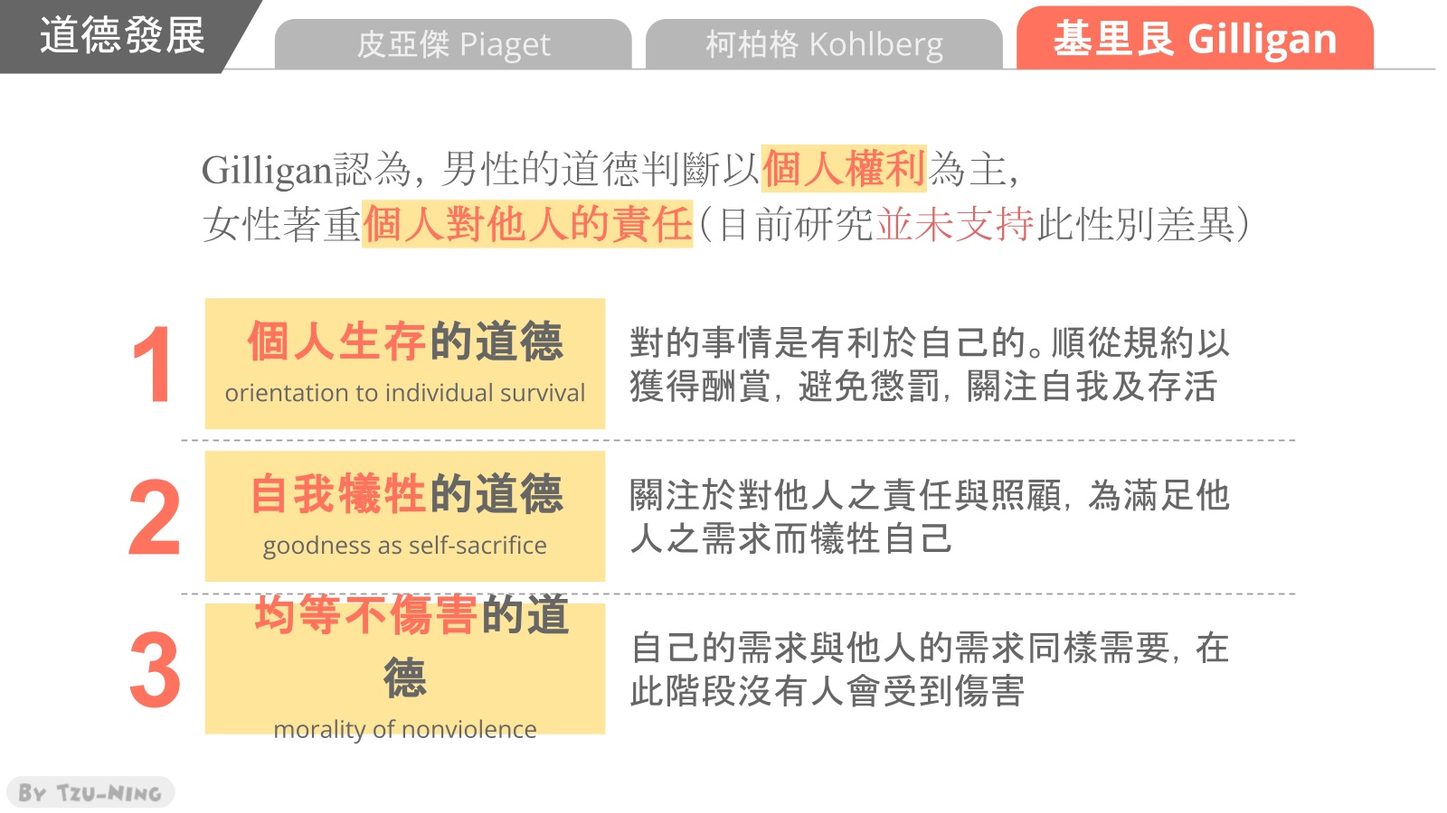
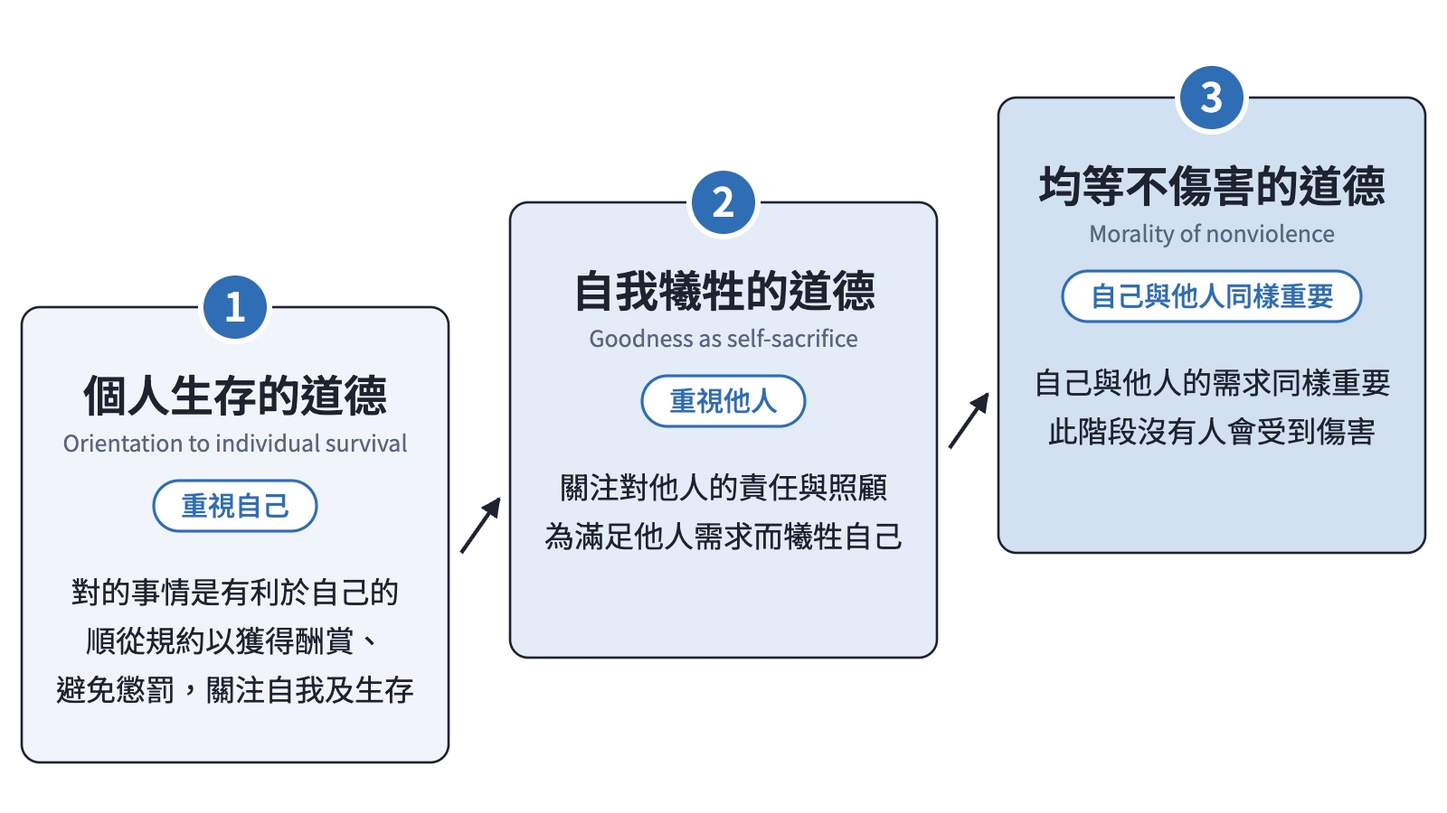
第 3 週：表格改寫成文字、重繪 Gilligan 三個道德層次
Kohlberg 三期六段、海因茲兩難理由、Parten 六種遊戲的表格與投影片重複，改寫成說明與判斷線索；Gilligan 三個道德層次依投影片內容重繪。AGENTS.md 新增「不重複投影片內容」的寫作規則。

diff --git a/review/week03/index.html b/review/week03/index.html
@@ -104,14 +104,15 @@
     <p>Kohlberg 在意的不是受試者回答「該」或「不該」，而是背後的理由；他會一路追問，以找出受試者最核心在意的是什麼。例如有人認為應該偷藥，因為生命最重要，但又認為偷藥之後仍應去坐牢，因為社會秩序也很重要；既然偷藥是對的事，為什麼做了對的事還要被關？這顯示他心中的排序，社會秩序可能比想像中更靠前。<span class="mark">不同的理由，會落在不同的道德發展階段</span>。</p>
     <h2 id="s8">Kohlberg 的三期六段論</h2>
     <p>Kohlberg 將道德發展分為三個時期，每個時期下再分兩個階段，共<strong>三期六段</strong>；因此他的理論屬於<strong>階段論（不連續論）</strong>。三個時期的名稱可以從中間記起：中間的<strong>習俗道德期（conventional）</strong>與規則、秩序有關；在它之前的是<strong>前習俗道德期（preconventional）</strong>，之後的是<strong>後習俗道德期（postconventional）</strong>。</p>
-    <div class="tbl"><table><thead><tr><th>時期</th><th>階段</th><th>判斷的依據</th></tr></thead><tbody><tr><td>一、前習俗道德期</td><td>1. 避罰服從取向</td><td>為避免懲罰而服從權威或規則；行為的好壞取決於它帶來怎樣的後果。</td></tr><tr><td></td><td>2. 相對功利取向</td><td>以自身需求或利益為首要考量，也可能進行互惠交換，例如「這次考試我借你看，下次你也要借我看」。</td></tr><tr><td>二、習俗道德期</td><td>3. 尋求認可取向（乖男巧女取向）</td><td>重視重要他人的認可及維持良好關係；英文為 good boy／good girl，希望別人說自己是好孩子。</td></tr><tr><td></td><td>4. 法律秩序取向（社會秩序取向）</td><td>重視履行義務、遵守法律及維持社會秩序；即使認為某條法律不好，在修改之前仍應遵守。</td></tr><tr><td>三、後習俗道德期</td><td>5. 社會契約取向</td><td>理解法律與制度是共同的約定，並重視個人權利及公共利益；只要社會有共識，法律也可以修改。</td></tr><tr><td></td><td>6. 普遍倫理取向</td><td>依據可普遍適用的倫理原則（良心）進行判斷；此階段的實證地位仍有爭議。</td></tr></tbody></table></div>
+    <p><strong>前習俗道德期</strong>以自己為判斷的中心。第一階段<strong>避罰服從取向</strong>為避免懲罰而服從權威或規則，行為的好壞取決於會帶來什麼後果；第二階段<strong>相對功利取向</strong>以自身的需求或利益為首要考量，也可能進行互惠交換，例如「這次考試我借你看，下次你也要借我看」。</p>
+    <p><strong>習俗道德期</strong>開始在意他人與社會的規範。第三階段<strong>尋求認可取向</strong>又稱乖男巧女取向（good boy／good girl），重視重要他人的認可，希望別人覺得自己是好孩子；第四階段<strong>法律秩序取向</strong>（社會秩序取向）重視履行義務、遵守法律，即使認為某條法律不好，在修改之前仍應遵守。</p>
+    <p><strong>後習俗道德期</strong>則能從更高的層次看待規範。第五階段<strong>社會契約取向</strong>理解法律與制度是共同的約定，並重視個人權利與公共利益，只要社會有共識，法律也可以修改；第六階段<strong>普遍倫理取向</strong>依據良心與可普遍適用的倫理原則進行判斷，不過這個階段的實證地位仍有爭議。</p>
     <figure class="slide"><img src="slides/kstages.jpg" alt="投影片：Kohlberg 的三期六段" width="1600" height="900" loading="lazy"><figcaption>Kohlberg 的三期六段</figcaption></figure>
     <p>並非每個人都會發展到第五、六階段，這與年齡的關係也沒有那麼大；六十歲的人也不一定進入後習俗道德期，多數成人仍落在第三、四階段。Kohlberg 的理論<span class="mark">並不是說階段越高的人越善良</span>，它分類的是一個人如何進行道德推理。</p>
     <h3 id="s8-1">以海因茲兩難練習判斷</h3>
-    <p>同樣面對海因茲兩難，不同理由對應不同的取向：</p>
-    <div class="tbl"><table><thead><tr><th>該不該偷藥與理由</th><th>道德判斷的依據</th><th>取向</th></tr></thead><tbody><tr><td>不應偷藥：偷藥會被抓、會受罰</td><td>只要會被處罰，就是不對的事</td><td>1. 避罰服從</td></tr><tr><td>應該偷藥：救回妻子後，兩人還能彼此照顧</td><td>只要結果優於損失（利大於弊），就是對的事</td><td>2. 相對功利</td></tr><tr><td>應該偷藥：否則親友會覺得他無情無義、不是好丈夫</td><td>只要他人認可的，就是對的事</td><td>3. 尋求認可</td></tr><tr><td>不應偷藥：因為大家都認為好人是不該偷東西的</td><td>只要他人認可的，就是對的事</td><td>3. 尋求認可</td></tr><tr><td>不應偷藥：若人人都因個人理由違法，法律與社會秩序將難以維持</td><td>只要法律禁止的，就是錯的</td><td>4. 法律秩序</td></tr><tr><td>應該偷藥：即使違法，救人仍符合保障生命的社會共識；不合宜的法律可透過民主程序修改</td><td>法律可因情況被修改</td><td>5. 社會契約</td></tr><tr><td>應該偷藥：即使法律禁止，仍應依可普遍適用的正義原則，考量生命與每個人的尊嚴</td><td>依據普遍的價值與原則進行判斷</td><td>6. 普遍倫理</td></tr></tbody></table></div>
+    <p>課堂以海因茲兩難的七種回答練習判斷取向。判斷的線索都在理由裡：「偷藥會被抓、會受罰」是<strong>避罰服從</strong>；「救回妻子後，兩人還能彼此照顧」看的是利大於弊，屬於<strong>相對功利</strong>；「否則親友會覺得他不是好丈夫」與「大家都認為好人不該偷東西」都在乎別人怎麼看，屬於<strong>尋求認可</strong>；「若人人都因個人理由違法，社會秩序將難以維持」是<strong>法律秩序</strong>；「救人符合保障生命的社會共識，不合宜的法律可以修改」是<strong>社會契約</strong>；「依可普遍適用的正義原則，考量生命與每個人的尊嚴」則是<strong>普遍倫理</strong>。</p>
     <figure class="slide"><img src="slides/kreasons.jpg" alt="投影片：海因茲兩難的回答與道德判斷理由（王秀槐，2020）" width="1600" height="900" loading="lazy"><figcaption>海因茲兩難的回答與道德判斷理由（王秀槐，2020）</figcaption></figure>
-    <p>表中第三、四列特別值得留意：一位認為應該偷、一位認為不應該偷，但理由都是希望得到別人的認可，因此都屬於尋求認可取向。<span class="mark">外在的行為選擇看似相反，背後的理由卻可能來自同一個取向</span>；判斷時要看理由，而不是看結論。</p>
+    <p>其中尋求認可的兩個回答特別值得留意：一位認為應該偷、一位認為不應該偷，但理由都是希望得到別人的認可，因此都屬於尋求認可取向。<span class="mark">外在的行為選擇看似相反，背後的理由卻可能來自同一個取向</span>；判斷時要看理由，而不是看結論。</p>
     <p>幾個判斷的例子：因為怕被警察抓到所以不闖紅燈，屬於避罰服從；因為推甄有加分才去做，屬於相對功利；怕別人覺得自己沒愛心、或「身為好朋友就該幫你」，屬於尋求認可；凡事照規定來，屬於法律秩序；取決於良心，則屬於最高的第六階段普遍倫理。國中生特別重視同儕、希望被認可，因此以尋求認可取向最為常見。</p>
     <h2 id="s9">Gilligan：女性視角的道德</h2>
     <p><strong>基里艮（Carol Gilligan，1936–）</strong>是美國心理學家，曾任教於哈佛大學，目前任教於紐約大學。她原本與 Kohlberg 同在哈佛的研究團隊，後來對 Kohlberg 的研究提出兩點質疑：</p>
@@ -120,19 +121,18 @@
     <figure class="slide"><img src="slides/gbio.jpg" alt="投影片：卡蘿・基里艮（Carol Gilligan）" width="1600" height="900" loading="lazy"><figcaption>卡蘿・基里艮（Carol Gilligan）</figcaption></figure>
     <p>Gilligan 認為，男性的道德判斷以<strong>個人權利</strong>為主，女性則著重<strong>個人對他人的責任</strong>，因此她的觀點常被稱為<strong>關懷倫理（ethics of care）</strong>。需要特別強調的是，這是 Gilligan 的觀點；<span class="mark">目前的研究並未支持道德判斷有這樣的性別差異</span>。她提出女性道德發展的三個層次：</p>
     <ol><li><strong>個人生存的道德（orientation to individual survival）</strong>：重視自己。對的事情是有利於自己的事；順從規約以獲得酬賞、避免懲罰，關注自我及生存。</li><li><strong>自我犧牲的道德（goodness as self-sacrifice）</strong>：重視別人。關注對他人的責任與照顧，為滿足他人的需求而犧牲自己。</li><li><strong>均等不傷害的道德（morality of nonviolence）</strong>：自己的需求與他人的需求同樣重要，希望做出的判斷與決定不會讓任何人受到傷害，也沒有人需要犧牲。</li></ol>
-    <figure class="slide"><img src="slides/glevels.jpg" alt="投影片：Gilligan 的三個道德層次" width="1600" height="900" loading="lazy"><figcaption>Gilligan 的三個道德層次</figcaption></figure>
+    <figure class="slide"><img src="slides/glevels.jpg" alt="投影片：Gilligan 的三個道德層次（依 Gilligan, 1982 繪製）" width="1600" height="900" loading="lazy"><figcaption>Gilligan 的三個道德層次（依 Gilligan, 1982 繪製）</figcaption></figure>
     <h2 id="s10">學前階段：同儕、利社會行為與遊戲</h2>
     <p>最後依學前、小學、中學三個階段，整理社會情緒的發展。每個階段都可以先對照 Erikson 的心理社會階段：學前階段（幼兒園）的主要任務是遊戲，透過遊戲探索世界，對應的是<span class="mark">第三期「主動探索 vs. 罪惡感」</span>。</p>
     <ul><li><strong>同儕關係（peers）</strong>：同儕之間的衝突，讓兒童了解別人的感覺與觀點不一定和自己相同；與同儕一起遊戲，有助於幼兒克服 Piaget 所說前運思期的<strong>自我中心</strong>。</li><li><strong>利社會行為（prosocial behavior）</strong>：指兒童自願對他人表現照顧、分享、安慰與合作等行為，例如幼兒問媽媽「你怎麼了？不舒服嗎？」影響因素中，最重要的是<strong>父母的管教方式</strong>，特別是強調兒童的行為會對別人產生什麼影響；其次是<strong>兒童與成人的互動方式</strong>，例如成人表示希望兒童關心別人、表明攻擊不被接受並提出替代方案、將兒童的良好行為歸因為其正面特質。</li><li><strong>遊戲（play）</strong>：遊戲讓兒童有機會練習語言、認知、技能與社會技能，並有助於人格發展。學前兒童與同儕的互動方式，與他們和父母的互動方式有關：有父母關愛和溫暖的孩子，較容易有社會性假裝遊戲，也較能解決同儕衝突。</li></ul>
     <figure class="slide"><img src="slides/peers.jpg" alt="投影片：學前階段：同儕關係與利社會行為（Slavin, 2021）" width="1600" height="900" loading="lazy"><figcaption>學前階段：同儕關係與利社會行為（Slavin, 2021）</figcaption></figure>
     <figure class="slide"><img src="slides/play.jpg" alt="投影片：學前階段：遊戲（Slavin, 2021）" width="1600" height="900" loading="lazy"><figcaption>學前階段：遊戲（Slavin, 2021）</figcaption></figure>
     <h3 id="s10-1">Parten 的六種遊戲類型</h3>
-    <p><strong>Parten（1932）</strong>依社會參與的多寡與遊戲的精緻程度，將兒童的遊戲行為分為六種類型：</p>
-    <div class="tbl"><table><thead><tr><th>類型</th><th>大約出現時間</th><th>特徵</th></tr></thead><tbody><tr><td>1. 無目的遊戲（unoccupied play）</td><td>出生–3 個月</td><td>不太像典型的「玩」；不與任何人或事物一起玩，可能靜靜的或隨意揮動手腳，探索自己的身體如何移動，為日後的單獨遊戲做準備。</td></tr><tr><td>2. 單獨遊戲（solitary play）</td><td>3 個月–2 歲</td><td>獨自玩耍，專注於自己的活動，對周遭他人的活動不感興趣或沒有察覺，屬於非社會性活動；對培養專注力、想像力與掌握新技能很重要。</td></tr><tr><td>3. 旁觀者遊戲（onlooker play）</td><td>約 1.5–3 歲</td><td>觀看他人遊戲但不參與，可能在附近提問或評論，但主要活動仍是「觀看」；是開始學習社交規則與遊戲方式的重要一步。</td></tr><tr><td>4. 平行遊戲（parallel play）</td><td>2–4 歲</td><td>與其他孩子「並排」玩耍、使用類似的玩具，但彼此沒有直接的互動或合作；意識到彼此的存在，仍專注於自己的遊戲。</td></tr><tr><td>5. 聯合遊戲（associative play）</td><td>3–5 歲</td><td>開始與他人產生互動，會分享玩具或材料、交流正在進行的活動，但沒有共同的目標或統一的規則。</td></tr><tr><td>6. 合作遊戲（cooperative play）</td><td>4 歲以上</td><td>為了達成共同的目標而一起玩；遊戲有組織，成員有明確的角色分配與共同的規則，需要更成熟的社交、溝通與解決問題的能力。</td></tr></tbody></table></div>
+    <p><strong>Parten（1932）</strong>依社會參與的多寡與遊戲的精緻程度，將兒童的遊戲行為分為六種類型，從非社會性到社會性依序為：<strong>無目的遊戲（unoccupied play）</strong>、<strong>單獨遊戲（solitary play）</strong>、<strong>旁觀者遊戲（onlooker play）</strong>、<strong>平行遊戲（parallel play）</strong>、<strong>聯合遊戲（associative play）</strong>與<strong>合作遊戲（cooperative play）</strong>。前三種屬於非社會性活動：無目的遊戲不太像典型的「玩」，嬰兒只是隨意揮動手腳，探索自己的身體如何移動；單獨遊戲是自己玩、專注在自己的活動上，對培養專注力與想像力很重要；旁觀者遊戲則是在旁邊看別人玩、不加入，是開始學習社交規則的一步。後三種開始與他人有關，差別在於互動的程度。</p>
     <figure class="slide"><img src="slides/play13.jpg" alt="投影片：無目的遊戲、單獨遊戲與旁觀者遊戲（Parten, 1932）" width="1600" height="900" loading="lazy"><figcaption>無目的遊戲、單獨遊戲與旁觀者遊戲（Parten, 1932）</figcaption></figure>
     <figure class="slide"><img src="slides/play46.jpg" alt="投影片：平行遊戲、聯合遊戲與合作遊戲（Parten, 1932）" width="1600" height="900" loading="lazy"><figcaption>平行遊戲、聯合遊戲與合作遊戲（Parten, 1932）</figcaption></figure>
     <p>較容易混淆的是旁觀者、平行與聯合遊戲。在公園裡站在旁邊一直看別人玩、可能會發問但沒有要加入的，是<strong>旁觀者遊戲</strong>；在沙坑裡各自拿著自己的鏟子挖沙、知道旁邊有人但各玩各的，是<strong>平行遊戲</strong>；向旁邊的孩子借盤子、借彩色筆，彼此有互動但沒有共同規則，是<strong>聯合遊戲</strong>；一起玩扮家家酒，有人當老闆、有人當客人，有角色、有規則，則是<strong>合作遊戲</strong>。</p>
-    <p>表中的時間只是大約的發展時間。<span class="mark">六種遊戲沒有高下之分</span>，只是與他人互動的程度不同；孩子會在不同類型之間轉換，已會合作遊戲的孩子也可能回到單獨遊戲，因此孩子一個人玩，不一定代表他比較不成熟。</p>
+    <p>投影片上的年齡只是大約的發展時間。<span class="mark">六種遊戲沒有高下之分</span>，只是與他人互動的程度不同；孩子會在不同類型之間轉換，已會合作遊戲的孩子也可能回到單獨遊戲，因此孩子一個人玩，不一定代表他比較不成熟。</p>
     <h2 id="s11">小學階段：自我概念、自尊與同儕接納</h2>
     <p>小學階段對應 Erikson 的<span class="mark">第四期「勤奮努力 vs. 自貶自卑」</span>。因為有了社會比較，這個階段特別需要了解以下幾個概念。</p>
     <h3 id="s11-1">自我概念與自尊</h3>

diff --git a/review-src/week03/content.py b/review-src/week03/content.py
@@ -23,7 +23,7 @@ SLIDES = {  # 皆為未隱藏投影片
     "heinz": "g380171b513d_0_1014",
     "kreasons": "g380171b513d_0_1054",
     "gbio": "g380171b513d_0_876",
-    "glevels": "g380171b513d_0_923",
+    "glevels": "g380171b513d_0_923",  # 依此頁內容重繪（work/diagram-test/gen_gilligan.py），非投影片匯出圖
     "peers": "g380171b513d_0_1236",
     "play": "g380171b513d_0_1245",
     "play13": "g380171b513d_0_1164",
@@ -155,27 +155,15 @@ BLOCKS = [
 
  ("h2", "Kohlberg 的三期六段論"),
  ("p", "Kohlberg 將道德發展分為三個時期，每個時期下再分兩個階段，共**三期六段**；因此他的理論屬於**階段論（不連續論）**。三個時期的名稱可以從中間記起：中間的**習俗道德期（conventional）**與規則、秩序有關；在它之前的是**前習俗道德期（preconventional）**，之後的是**後習俗道德期（postconventional）**。"),
- ("table", [["時期", "階段", "判斷的依據"],
-            ["一、前習俗道德期", "1. 避罰服從取向", "為避免懲罰而服從權威或規則；行為的好壞取決於它帶來怎樣的後果。"],
-            ["", "2. 相對功利取向", "以自身需求或利益為首要考量，也可能進行互惠交換，例如「這次考試我借你看，下次你也要借我看」。"],
-            ["二、習俗道德期", "3. 尋求認可取向（乖男巧女取向）", "重視重要他人的認可及維持良好關係；英文為 good boy／good girl，希望別人說自己是好孩子。"],
-            ["", "4. 法律秩序取向（社會秩序取向）", "重視履行義務、遵守法律及維持社會秩序；即使認為某條法律不好，在修改之前仍應遵守。"],
-            ["三、後習俗道德期", "5. 社會契約取向", "理解法律與制度是共同的約定，並重視個人權利及公共利益；只要社會有共識，法律也可以修改。"],
-            ["", "6. 普遍倫理取向", "依據可普遍適用的倫理原則（良心）進行判斷；此階段的實證地位仍有爭議。"]]),
+ ("p", "**前習俗道德期**以自己為判斷的中心。第一階段**避罰服從取向**為避免懲罰而服從權威或規則，行為的好壞取決於會帶來什麼後果；第二階段**相對功利取向**以自身的需求或利益為首要考量，也可能進行互惠交換，例如「這次考試我借你看，下次你也要借我看」。"),
+ ("p", "**習俗道德期**開始在意他人與社會的規範。第三階段**尋求認可取向**又稱乖男巧女取向（good boy／good girl），重視重要他人的認可，希望別人覺得自己是好孩子；第四階段**法律秩序取向**（社會秩序取向）重視履行義務、遵守法律，即使認為某條法律不好，在修改之前仍應遵守。"),
+ ("p", "**後習俗道德期**則能從更高的層次看待規範。第五階段**社會契約取向**理解法律與制度是共同的約定，並重視個人權利與公共利益，只要社會有共識，法律也可以修改；第六階段**普遍倫理取向**依據良心與可普遍適用的倫理原則進行判斷，不過這個階段的實證地位仍有爭議。"),
  ("img", "kstages", "Kohlberg 的三期六段"),
  ("p", "並非每個人都會發展到第五、六階段，這與年齡的關係也沒有那麼大；六十歲的人也不一定進入後習俗道德期，多數成人仍落在第三、四階段。Kohlberg 的理論==並不是說階段越高的人越善良==，它分類的是一個人如何進行道德推理。"),
  ("h3", "以海因茲兩難練習判斷"),
- ("p", "同樣面對海因茲兩難，不同理由對應不同的取向："),
- ("table", [["該不該偷藥與理由", "道德判斷的依據", "取向"],
-            ["不應偷藥：偷藥會被抓、會受罰", "只要會被處罰，就是不對的事", "1. 避罰服從"],
-            ["應該偷藥：救回妻子後，兩人還能彼此照顧", "只要結果優於損失（利大於弊），就是對的事", "2. 相對功利"],
-            ["應該偷藥：否則親友會覺得他無情無義、不是好丈夫", "只要他人認可的，就是對的事", "3. 尋求認可"],
-            ["不應偷藥：因為大家都認為好人是不該偷東西的", "只要他人認可的，就是對的事", "3. 尋求認可"],
-            ["不應偷藥：若人人都因個人理由違法，法律與社會秩序將難以維持", "只要法律禁止的，就是錯的", "4. 法律秩序"],
-            ["應該偷藥：即使違法，救人仍符合保障生命的社會共識；不合宜的法律可透過民主程序修改", "法律可因情況被修改", "5. 社會契約"],
-            ["應該偷藥：即使法律禁止，仍應依可普遍適用的正義原則，考量生命與每個人的尊嚴", "依據普遍的價值與原則進行判斷", "6. 普遍倫理"]]),
+ ("p", "課堂以海因茲兩難的七種回答練習判斷取向。判斷的線索都在理由裡：「偷藥會被抓、會受罰」是**避罰服從**；「救回妻子後，兩人還能彼此照顧」看的是利大於弊，屬於**相對功利**；「否則親友會覺得他不是好丈夫」與「大家都認為好人不該偷東西」都在乎別人怎麼看，屬於**尋求認可**；「若人人都因個人理由違法，社會秩序將難以維持」是**法律秩序**；「救人符合保障生命的社會共識，不合宜的法律可以修改」是**社會契約**；「依可普遍適用的正義原則，考量生命與每個人的尊嚴」則是**普遍倫理**。"),
  ("img", "kreasons", "海因茲兩難的回答與道德判斷理由（王秀槐，2020）"),
- ("p", "表中第三、四列特別值得留意：一位認為應該偷、一位認為不應該偷，但理由都是希望得到別人的認可，因此都屬於尋求認可取向。==外在的行為選擇看似相反，背後的理由卻可能來自同一個取向==；判斷時要看理由，而不是看結論。"),
+ ("p", "其中尋求認可的兩個回答特別值得留意：一位認為應該偷、一位認為不應該偷，但理由都是希望得到別人的認可，因此都屬於尋求認可取向。==外在的行為選擇看似相反，背後的理由卻可能來自同一個取向==；判斷時要看理由，而不是看結論。"),
  ("p", "幾個判斷的例子：因為怕被警察抓到所以不闖紅燈，屬於避罰服從；因為推甄有加分才去做，屬於相對功利；怕別人覺得自己沒愛心、或「身為好朋友就該幫你」，屬於尋求認可；凡事照規定來，屬於法律秩序；取決於良心，則屬於最高的第六階段普遍倫理。國中生特別重視同儕、希望被認可，因此以尋求認可取向最為常見。"),
 
  ("h2", "Gilligan：女性視角的道德"),
@@ -188,7 +176,7 @@ BLOCKS = [
  ("ol", ["**個人生存的道德（orientation to individual survival）**：重視自己。對的事情是有利於自己的事；順從規約以獲得酬賞、避免懲罰，關注自我及生存。",
          "**自我犧牲的道德（goodness as self-sacrifice）**：重視別人。關注對他人的責任與照顧，為滿足他人的需求而犧牲自己。",
          "**均等不傷害的道德（morality of nonviolence）**：自己的需求與他人的需求同樣重要，希望做出的判斷與決定不會讓任何人受到傷害，也沒有人需要犧牲。"]),
- ("img", "glevels", "Gilligan 的三個道德層次"),
+ ("img", "glevels", "Gilligan 的三個道德層次（依 Gilligan, 1982 繪製）"),
 
  ("h2", "學前階段：同儕、利社會行為與遊戲"),
  ("p", "最後依學前、小學、中學三個階段，整理社會情緒的發展。每個階段都可以先對照 Erikson 的心理社會階段：學前階段（幼兒園）的主要任務是遊戲，透過遊戲探索世界，對應的是==第三期「主動探索 vs. 罪惡感」==。"),
@@ -198,18 +186,11 @@ BLOCKS = [
  ("img", "peers", "學前階段：同儕關係與利社會行為（Slavin, 2021）"),
  ("img", "play", "學前階段：遊戲（Slavin, 2021）"),
  ("h3", "Parten 的六種遊戲類型"),
- ("p", "**Parten（1932）**依社會參與的多寡與遊戲的精緻程度，將兒童的遊戲行為分為六種類型："),
- ("table", [["類型", "大約出現時間", "特徵"],
-            ["1. 無目的遊戲（unoccupied play）", "出生–3 個月", "不太像典型的「玩」；不與任何人或事物一起玩，可能靜靜的或隨意揮動手腳，探索自己的身體如何移動，為日後的單獨遊戲做準備。"],
-            ["2. 單獨遊戲（solitary play）", "3 個月–2 歲", "獨自玩耍，專注於自己的活動，對周遭他人的活動不感興趣或沒有察覺，屬於非社會性活動；對培養專注力、想像力與掌握新技能很重要。"],
-            ["3. 旁觀者遊戲（onlooker play）", "約 1.5–3 歲", "觀看他人遊戲但不參與，可能在附近提問或評論，但主要活動仍是「觀看」；是開始學習社交規則與遊戲方式的重要一步。"],
-            ["4. 平行遊戲（parallel play）", "2–4 歲", "與其他孩子「並排」玩耍、使用類似的玩具，但彼此沒有直接的互動或合作；意識到彼此的存在，仍專注於自己的遊戲。"],
-            ["5. 聯合遊戲（associative play）", "3–5 歲", "開始與他人產生互動，會分享玩具或材料、交流正在進行的活動，但沒有共同的目標或統一的規則。"],
-            ["6. 合作遊戲（cooperative play）", "4 歲以上", "為了達成共同的目標而一起玩；遊戲有組織，成員有明確的角色分配與共同的規則，需要更成熟的社交、溝通與解決問題的能力。"]]),
+ ("p", "**Parten（1932）**依社會參與的多寡與遊戲的精緻程度，將兒童的遊戲行為分為六種類型，從非社會性到社會性依序為：**無目的遊戲（unoccupied play）**、**單獨遊戲（solitary play）**、**旁觀者遊戲（onlooker play）**、**平行遊戲（parallel play）**、**聯合遊戲（associative play）**與**合作遊戲（cooperative play）**。前三種屬於非社會性活動：無目的遊戲不太像典型的「玩」，嬰兒只是隨意揮動手腳，探索自己的身體如何移動；單獨遊戲是自己玩、專注在自己的活動上，對培養專注力與想像力很重要；旁觀者遊戲則是在旁邊看別人玩、不加入，是開始學習社交規則的一步。後三種開始與他人有關，差別在於互動的程度。"),
  ("img", "play13", "無目的遊戲、單獨遊戲與旁觀者遊戲（Parten, 1932）"),
  ("img", "play46", "平行遊戲、聯合遊戲與合作遊戲（Parten, 1932）"),
  ("p", "較容易混淆的是旁觀者、平行與聯合遊戲。在公園裡站在旁邊一直看別人玩、可能會發問但沒有要加入的，是**旁觀者遊戲**；在沙坑裡各自拿著自己的鏟子挖沙、知道旁邊有人但各玩各的，是**平行遊戲**；向旁邊的孩子借盤子、借彩色筆，彼此有互動但沒有共同規則，是**聯合遊戲**；一起玩扮家家酒，有人當老闆、有人當客人，有角色、有規則，則是**合作遊戲**。"),
- ("p", "表中的時間只是大約的發展時間。==六種遊戲沒有高下之分==，只是與他人互動的程度不同；孩子會在不同類型之間轉換，已會合作遊戲的孩子也可能回到單獨遊戲，因此孩子一個人玩，不一定代表他比較不成熟。"),
+ ("p", "投影片上的年齡只是大約的發展時間。==六種遊戲沒有高下之分==，只是與他人互動的程度不同；孩子會在不同類型之間轉換，已會合作遊戲的孩子也可能回到單獨遊戲，因此孩子一個人玩，不一定代表他比較不成熟。"),
 
  ("h2", "小學階段：自我概念、自尊與同儕接納"),
  ("p", "小學階段對應 Erikson 的==第四期「勤奮努力 vs. 自貶自卑」==。因為有了社會比較，這個階段特別需要了解以下幾個概念。"),

diff --git a/review-src/AGENTS.md b/review-src/AGENTS.md
@@ -62,6 +62,7 @@ AI 助手**打不開這份簡報**，所以：
 5. 不使用隱藏的投影片。
 6. 老師的名字是「王孜𡩋」（𡩋 下面是「冉」），不要寫成其他字。
 7. 名詞、年代、人名依投影片；文獻引用格式如 `(Kicken et al., 2009)`。
+8. 不要把投影片內容再打成表格或清單：投影片圖就在旁邊，文字只寫投影片上沒有的部分（老師的解釋、判斷線索、課堂例子）。投影片上沒有、由課堂內容整理出來的比較表可以保留。
 
 ## 版面規則
 
